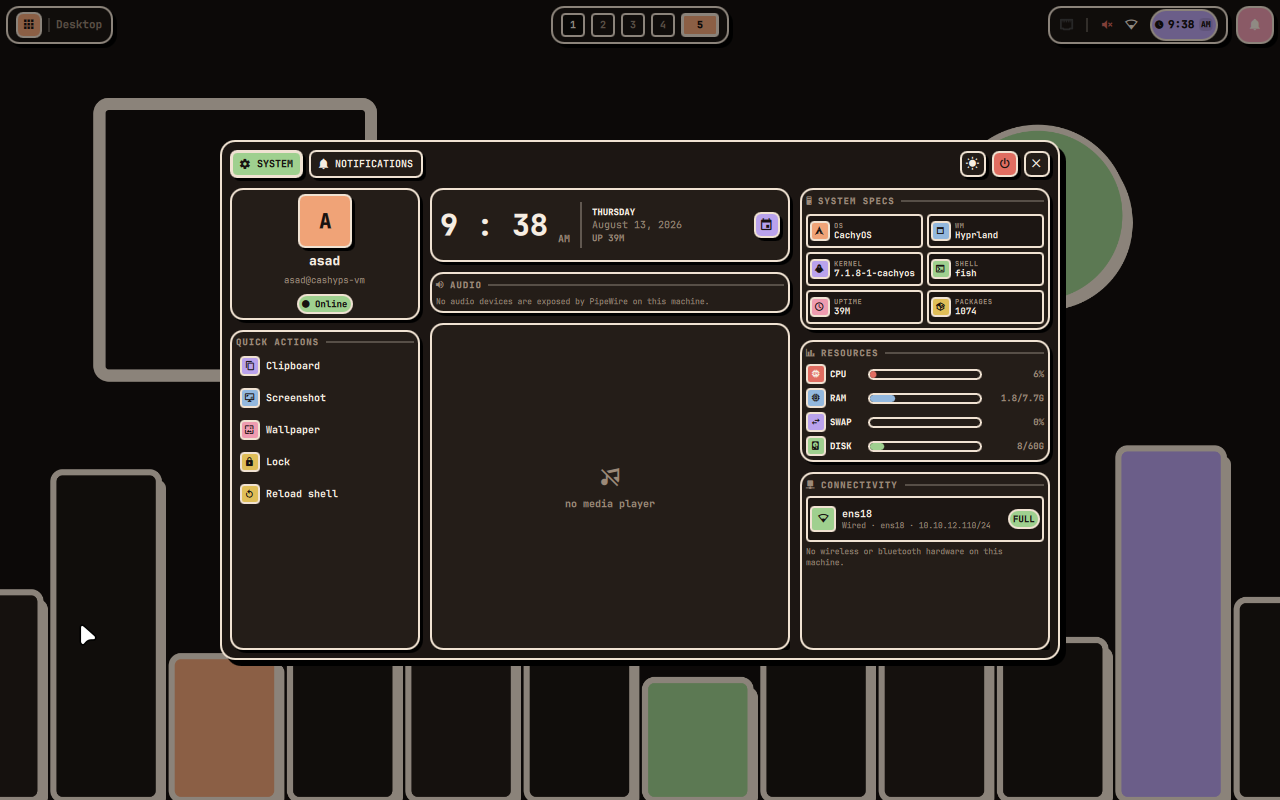
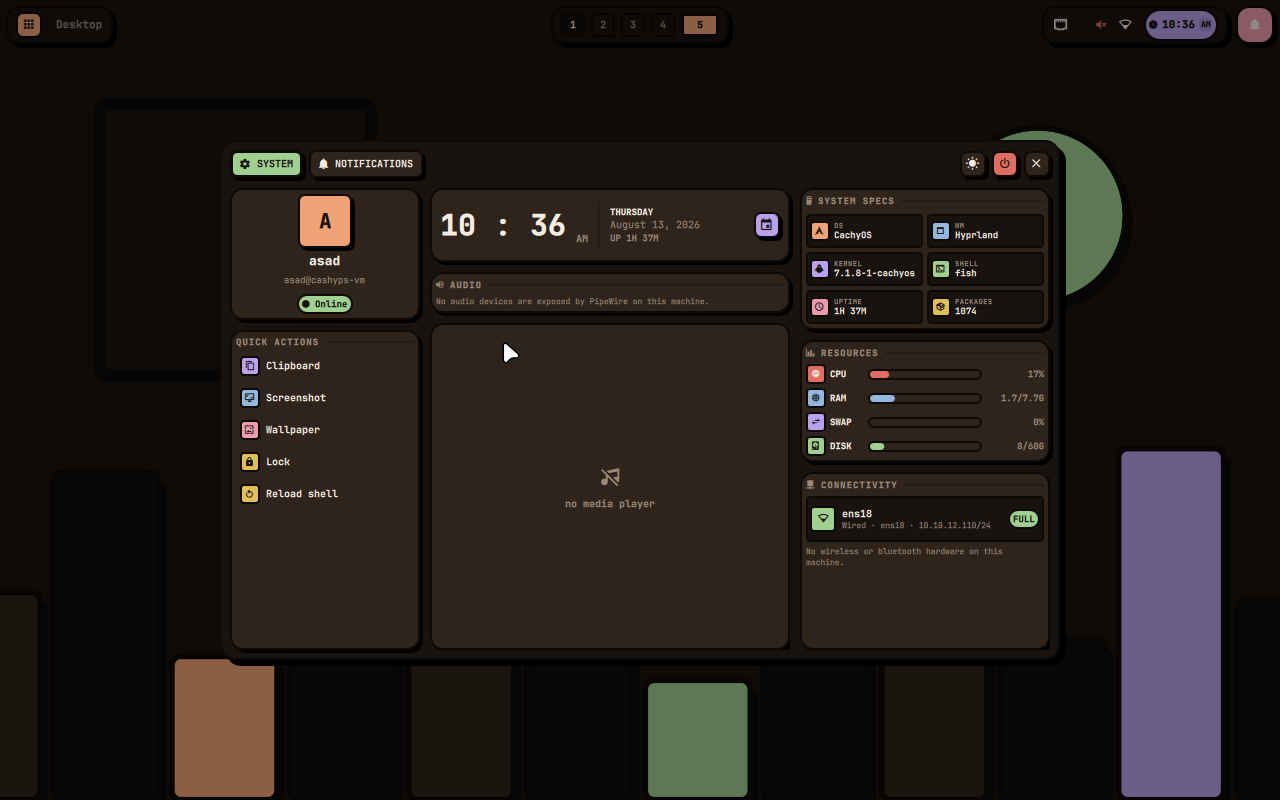
style: near-black borders in dusk instead of cream
A light outline on a dark ground reads as a glow around every card rather than as
structure, and the dusk panels looked busy because of it. The outline is now
near-black (#0D0A08) in both palettes; dawn is untouched.

That removes the border as the thing separating a card from the panel behind it,
so the surfaces take that job over: `surface` is lifted #241D18 -> #2E241C and
`surfaceAlt` dropped #1C1613 -> #191310, widening the fill gap enough to read on
its own. Without this the card edges — "QUICK ACTIONS" especially — nearly
vanished into the panel body.

The change reaches further than Theme.qml, because the palette also drives the
terminals, GTK, Qt, KDE, hyprlock and the generated wallpapers:

  · The dusk wallpapers had cream outlines baked in, so the desktop no longer
    matched the shell sitting on it. neobrix-generate-wallpapers now sources
    lib/palette.sh rather than carrying a hardcoded copy — that was the last
    duplicate of the palette outside Theme.qml. Verified the dawn set comes out
    pixel-identical (magick compare AE = 0).

  · hyprlock coloured the clock and username labels from $ink. Fine while the
    dusk outline was cream; with a near-black outline that is black text on a
    dark card, i.e. an invisible lock screen. Both now use $fg, which is the
    correct role for text on a surface and is right in either palette. Verified
    by rendering the lock screen in dusk.
[…]

diff --git a/quickshell/Theme/Theme.qml b/quickshell/Theme/Theme.qml
@@ -77,12 +77,17 @@ Singleton {
 
     readonly property QtObject dusk: QtObject {
         readonly property color background:   "#14100E"
-        readonly property color surface:      "#241D18"
-        readonly property color surfaceAlt:   "#1C1613"
+        readonly property color surface:      "#2E241C"  // card interior
+        readonly property color surfaceAlt:   "#191310"  // panel body / bar fill
         readonly property color surfaceDeep:  "#100D0B"
         readonly property color foreground:   "#F6EDE2"
         readonly property color foregroundDim:"#9C8A79"
-        readonly property color outline:      "#F0E2D2"  // cream outline on dark
+        // Near-black, not cream. A light outline on a dark ground reads as a glow
+        // around every card rather than as structure, and the panels looked busy.
+        // Because the border no longer separates card from panel, the two surfaces
+        // carry that job instead: `surface` is lifted and `surfaceAlt` dropped so
+        // the fill gap is wide enough to read on its own.
+        readonly property color outline:      "#0D0A08"
         readonly property color shadow:       "#000000"
         readonly property color primary:      "#F0A377"
         readonly property color secondary:    "#9FD08F"
